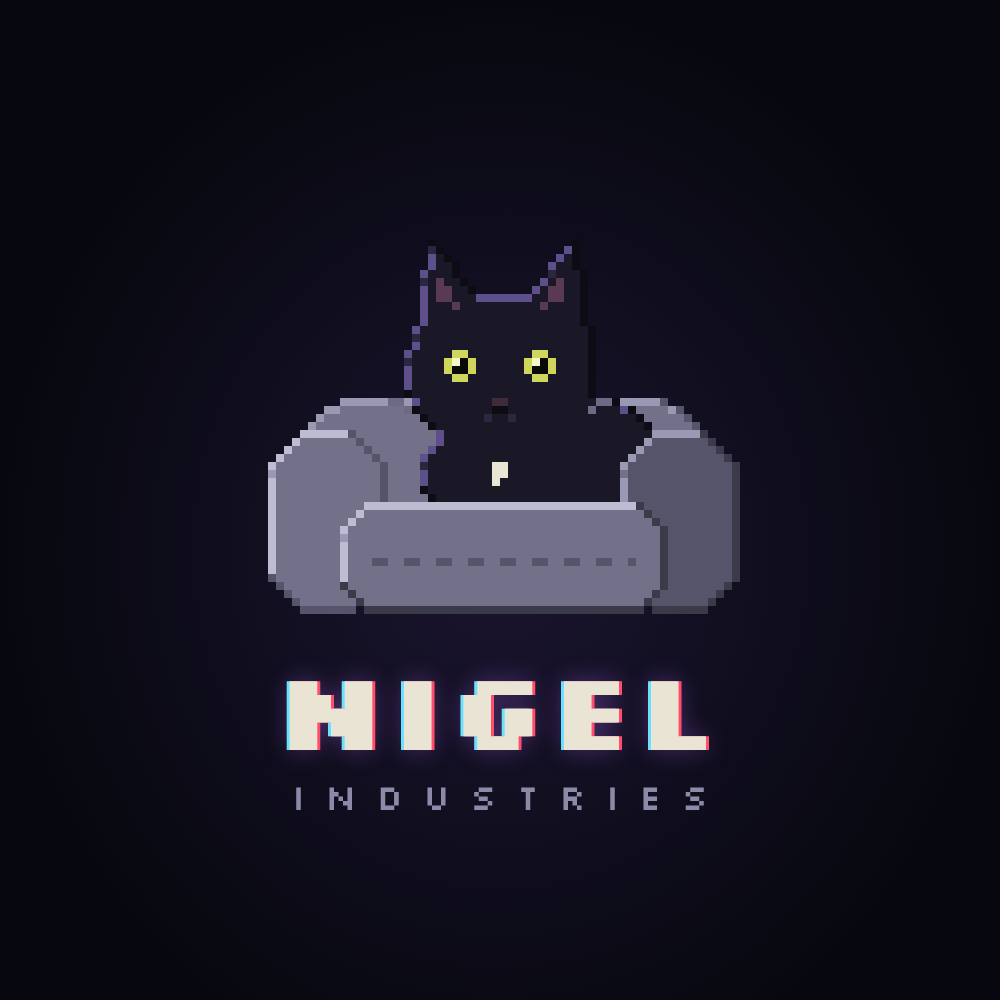
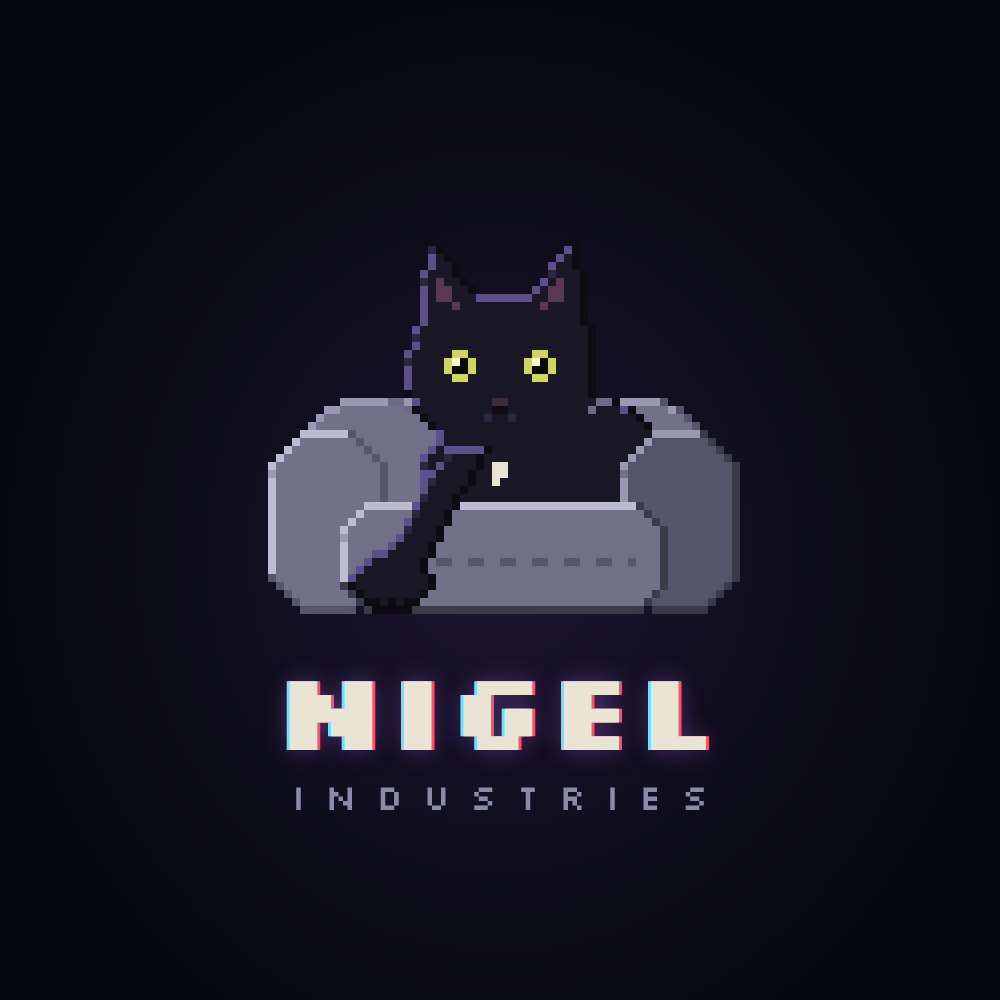
Brand: Nigel lounges with one leg draped over the couch
Claude-Session: https://claude.ai/code/session_01CJF2sGxVEN5E146U2Ca9Ve

Changed region(s): [[0.341, 0.465, 0.465, 0.62], [0.434, 0.434, 0.496, 0.465]]

diff --git a/docs/brand/nigel_couch.py b/docs/brand/nigel_couch.py
@@ -34,9 +34,16 @@ paint(cat, P['c1'], P['c3'], P['c0'], P['c2'])
 paint(arm_l, P['g2'], P['g4'], P['g1'], P['g3'])
 paint(arm_r, P['g1'], P['g3'], P['g0'], P['g2'])
 paint(front, P['g2'], P['g4'], P['g0'], P['g3'])
-# plush seams on the front cushion
+# the leg: one front leg stretched out and draped over the front cushion (his usual pose)
+leg = mask(); ld = ImageDraw.Draw(leg)
+for y in range(33, 50):
+    cx = 27.5 - (y - 33) * 0.55
+    ld.rectangle([round(cx - 2.4), y, round(cx + 2.2), y], fill=1)
+ld.ellipse([13, 46, 23, 53], fill=1)  # paw
+paint(leg, P['c1'], P['c3'], P['c0'], P['c2'])
+
 for x in range(16, 49):
-    if (x // 2) % 2 == 0: px[x, 47] = col(P['g1'])
+    if (x // 2) % 2 == 0 and not at(leg, x, 47): px[x, 47] = col(P['g1'])
 # inner ears
 for (x, y) in [(24, 12), (24, 13), (25, 13), (24, 14), (25, 14), (26, 15), (39, 12), (39, 13), (38, 13), (39, 14), (38, 14), (37, 15)]:
     px[x, y] = col(P['ear'])
@@ -49,6 +56,8 @@ for ex in (25, 35):
 px[31, 27] = col(P['nose']); px[32, 27] = col(P['nose'])
 for (x, y) in [(31, 35), (32, 35), (31, 36), (32, 36), (31, 37)]: px[x, y] = col(P['white'])
 px[31, 28] = col(P['c0']); px[32, 28] = col(P['c0']); px[30, 29] = col(P['c2']); px[33, 29] = col(P['c2'])
+# toe beans: two dark lines on the paw
+for (x, y) in [(16, 52), (18, 52), (20, 52)]: px[x, y] = col(P['c0'])
 # whiskers, faint
 for (x, y) in [(18, 27), (19, 27), (20, 28), (44, 27), (45, 27), (43, 28)]: px[x, y] = col('#6e6a85')
 img.save('nigel_px.png')

diff --git a/HANDOFF.md b/HANDOFF.md
@@ -831,7 +831,7 @@ The expanding sector made every level a little easier, because the compact early
 ## 9. Backlog and ideas discussed
 - **Open threads as of 5.6.0 (November 1, 2026):**
   - **Name chosen: Last Gradient.** Next: Nic checks lastgradient.com; a trademark lawyer's USPTO check before the store build. If he wants, offer the store/icon art with the new title and a Settings credit line.
-  - **Studio name: Nigel Industries** (Nic's black cat, Nigel, who sits in a small grey bolster cat couch). "Void Industries" was taken (a 25-person SF game-tools company) and "Void" studio names are crowded (VOID Interactive and others); Nigel Industries / Nigel Games had no matches. Logo in `docs/brand/`: pixel Nigel in his couch (`nigel_couch.py` draws it on a 64×56 grid; 1× and 8× PNGs with transparency) plus wide and stacked lockups (Silkscreen, the title's red/cyan fringe). On the App Store an individual account shows Nic's legal name; a studio name there needs an LLC + D-U-N-S (no DBAs). Possible next: a short "Nigel Industries presents" splash before the hangar.
+  - **Studio name: Nigel Industries** (Nic's black cat, Nigel, who sits in a small grey bolster cat couch). "Void Industries" was taken (a 25-person SF game-tools company) and "Void" studio names are crowded (VOID Interactive and others); Nigel Industries / Nigel Games had no matches. Logo in `docs/brand/`: pixel Nigel lounging in his couch with one front leg draped over the front, his usual pose (`nigel_couch.py` draws it on a 64×56 grid; 1× and 8× PNGs with transparency) plus wide and stacked lockups (Silkscreen, the title's red/cyan fringe). On the App Store an individual account shows Nic's legal name; a studio name there needs an LLC + D-U-N-S (no DBAs). Possible next: a short "Nigel Industries presents" splash before the hangar.
   - **Title effect:** ask how it looks on his iPhone and iPad (speed, trail length, colours: all in `TitleFX.build`). Safari is untested here.
   - Everything below from 5.5.14 still stands.
 - **Open threads as of 5.5.14 (November 1, 2026):**
